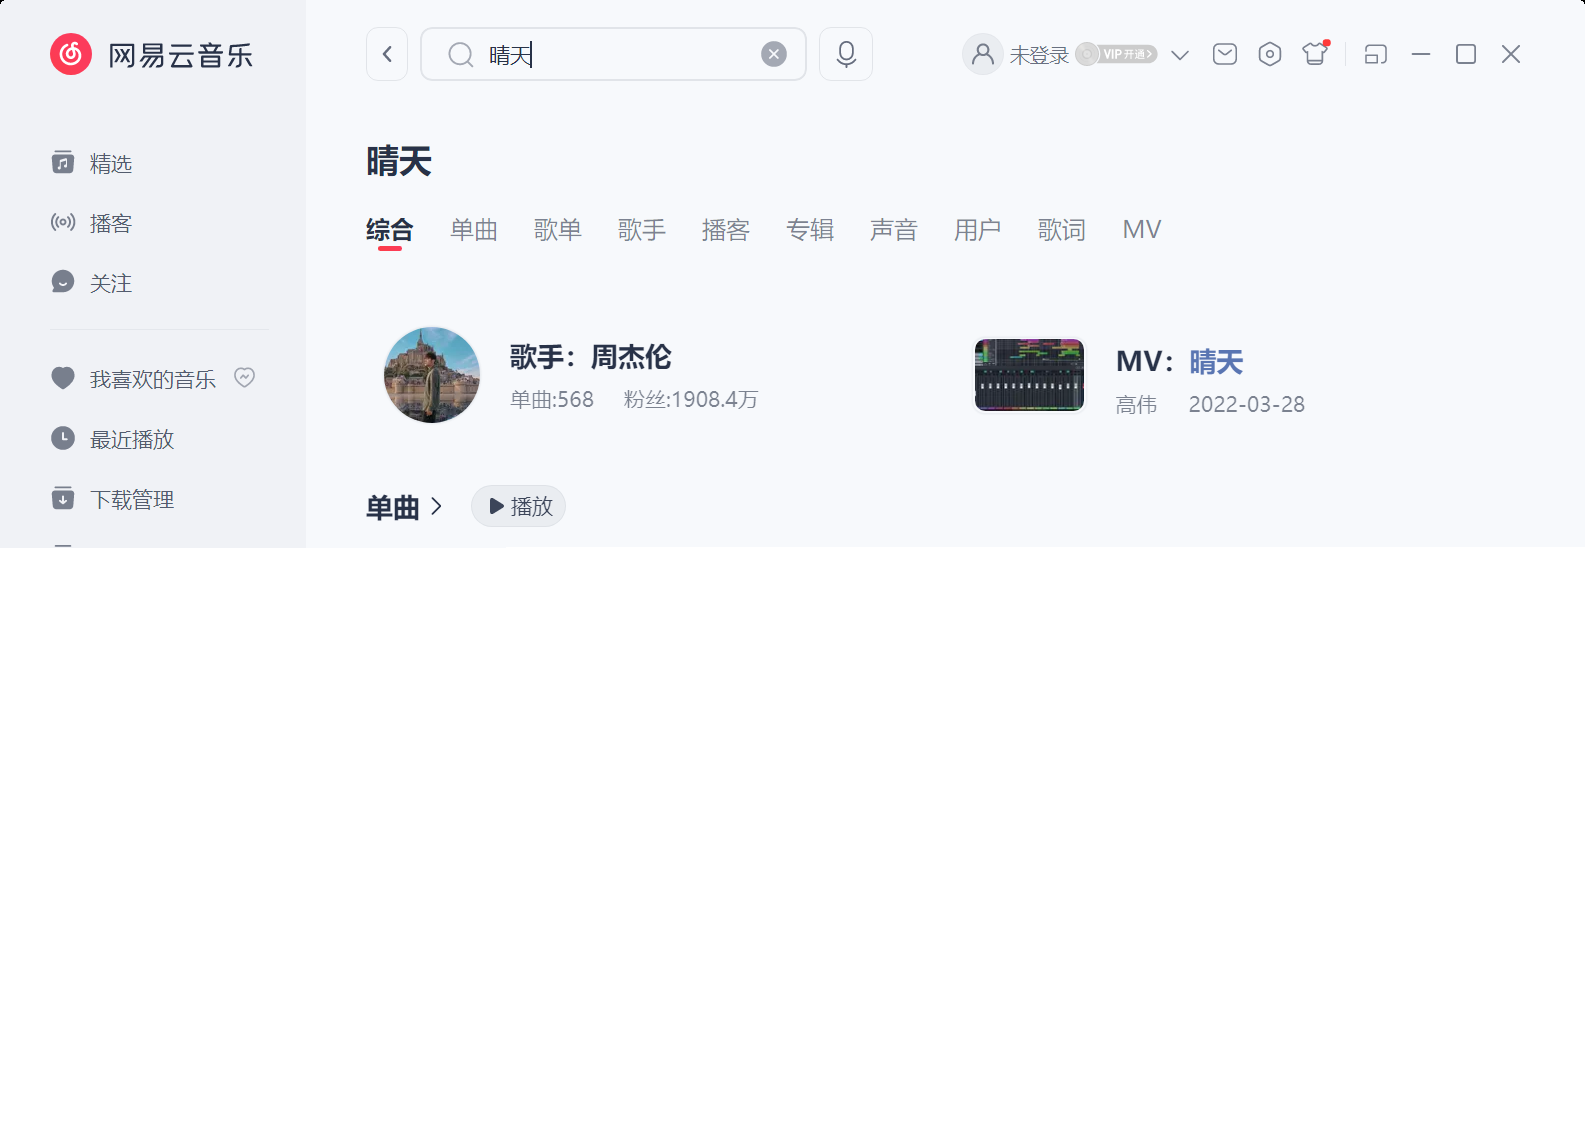
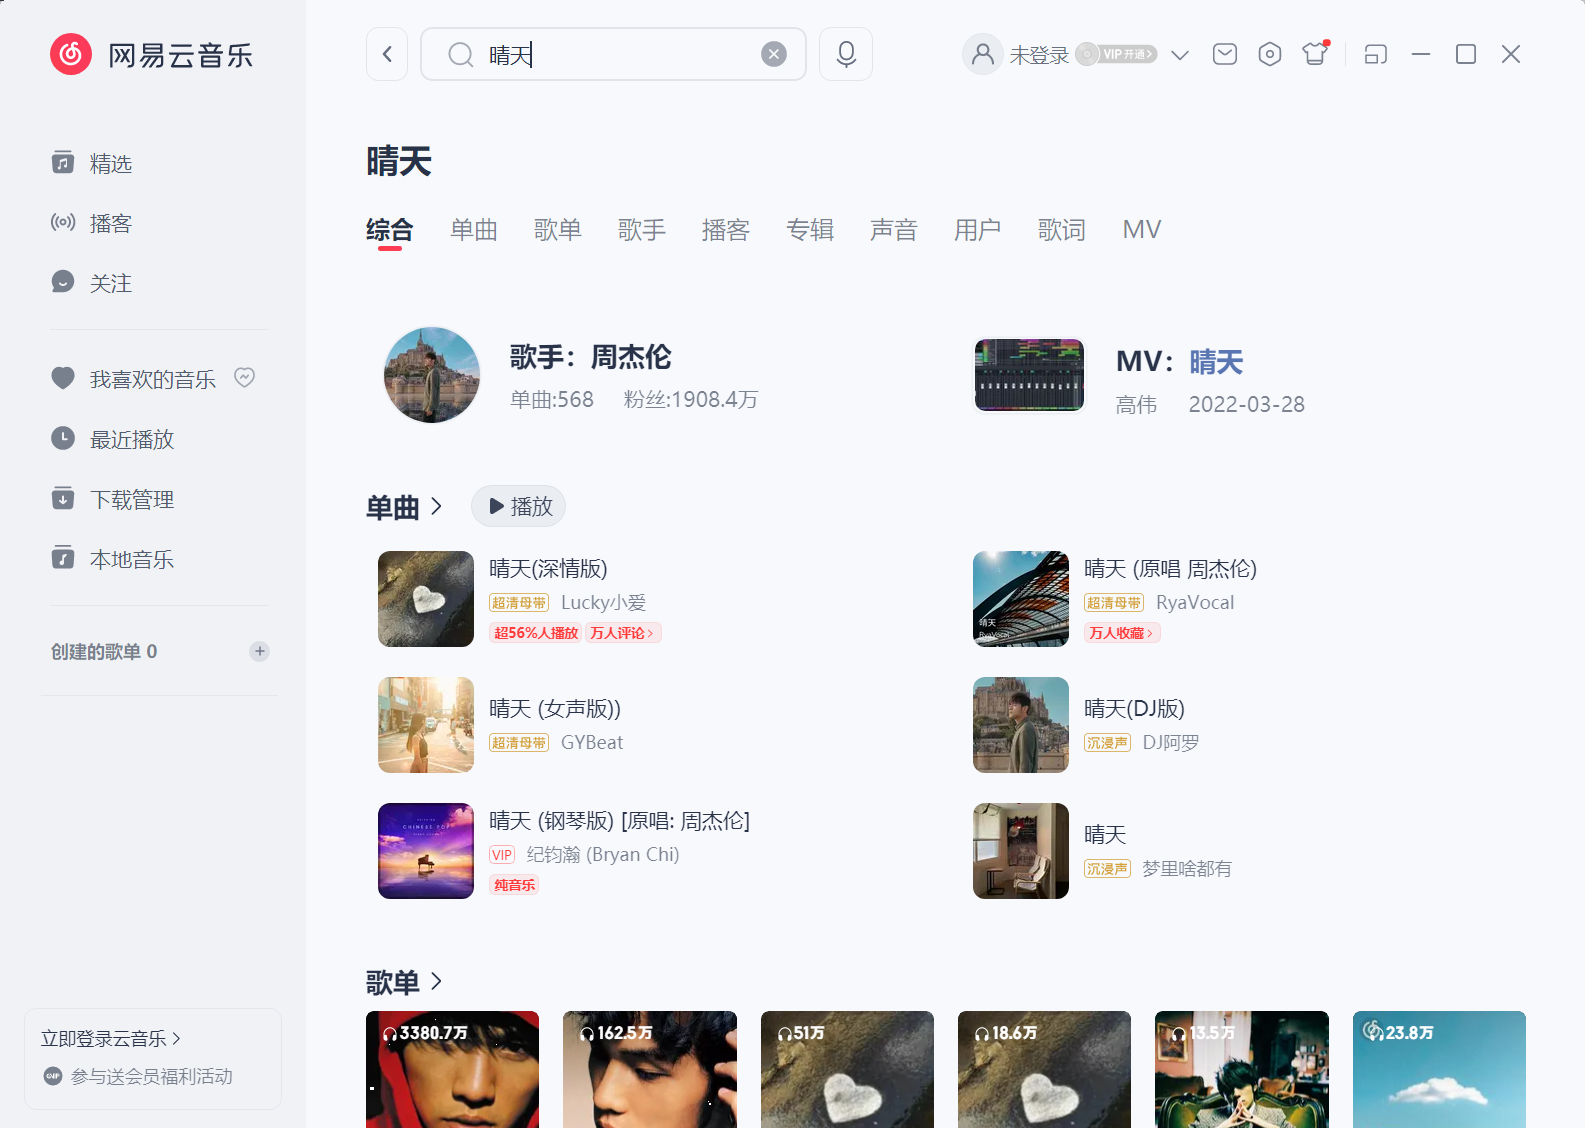
Fix partial foreground window captures and expand essential README sections (#22)

diff --git a/README.en.md b/README.en.md
@@ -27,7 +27,7 @@ dsh plugin --profile web add dsh-computer-use-win
 
 Restart `dsh web`; Desktop users should reload their host and MCP worker. Replace `web` with **the profile your host actually uses**, then run `health` to check the connection. DSH exposes the tools as `mcp__wincu__windows_computer_use_*`.
 
-<details>
+<details open>
 <summary>Other installation options and upgrade checks</summary>
 
 Install from GitHub:
@@ -77,7 +77,7 @@ These screenshots come from actual desktop operations.
 
 **Open the app → locate the search field with OCR → type “晴天” → verify the results.**
 
-NetEase's default accessibility tree exposes only a few nodes. OCR lets the plugin locate the search entry and complete the task. Version 0.3.0 completed two cold-start searches in an independent Windows VM, with “晴天” and “周杰伦” visible on the results page.
+NetEase's default accessibility tree exposes only a few nodes. OCR lets the plugin locate the search entry and complete the task. Version 0.3.1 completed two cold-start searches in an independent Windows VM, with “晴天” and “周杰伦” visible on the results page.
 
 ![Actual NetEase Cloud Music search results showing 晴天 and artist 周杰伦](assets/netease-qingtian-search.png)
 
@@ -86,12 +86,12 @@ NetEase's default accessibility tree exposes only a few nodes. OCR lets the plug
 | ![File selection using find and invoke](assets/screenshot-1.png) | ![Text input and content read-back](assets/screenshot-2.png) | ![Calculator result of 25 times 4 equals 100](assets/screenshot-3.png) |
 | Query and select a file | Write, then read back | Locate buttons and read the result |
 
-<details>
-<summary>0.3.0 task validation in a real application</summary>
+<details open>
+<summary>0.3.1 task validation in a real application</summary>
 
 An owned Windows 11 Home China 22621.4112 VM, PowerShell 5.1.22621.4111, 2560×1600 display, 150% DPI and NetEase 3.1.41.205529 completed two cold-start searches: OCR location → click → type “晴天” → Enter → observe “单曲” and “周杰伦” in the final OCR/screenshot. Clipboard text, bitmap and file-drop contents were restored; every before/after native responsiveness probe passed.
 
-The task used the official Cordis / ToolRuntime / MCP bridge programmatically, without a model. Playback was not tested, and the app freeze reported in [#18](https://github.com/Yu-tao-Li/dsh-computer-use-win/issues/18) remains unreproduced. See the [0.3.0 release](https://github.com/Yu-tao-Li/dsh-computer-use-win/releases/tag/v0.3.0) and [test notes](docs/dev-notes.md) for evidence.
+The task used the official Cordis / ToolRuntime / MCP bridge programmatically, without a model. Playback was not tested, and the app freeze reported in [#18](https://github.com/Yu-tao-Li/dsh-computer-use-win/issues/18) remains unreproduced. See the [0.3.1 release](https://github.com/Yu-tao-Li/dsh-computer-use-win/releases/tag/v0.3.1) and [test notes](docs/dev-notes.md) for evidence.
 
 </details>
 
@@ -99,7 +99,7 @@ The task used the official Cordis / ToolRuntime / MCP bridge programmatically, w
 
 Start with `health`, `list_windows`, and `find` / `snapshot`, then choose an action for the target. Short names below map to `windows_computer_use_<name>`; the DSH bridge adds `mcp__wincu__`.
 
-<details>
+<details open>
 <summary>All 23 tools</summary>
 
 | Purpose | Tools |
@@ -118,7 +118,7 @@ Tools supporting window targeting accept `windowTitle`, `processId` or `nativeWi
 
 </details>
 
-<details>
+<details open>
 <summary>When should I use UIA, OCR or screenshots?</summary>
 
 | Current observation | Next step |
@@ -133,7 +133,7 @@ Empty sparse (≤20 nodes, a heuristic) or incomplete UIA searches can automatic
 
 OCR candidates carry `source:"ocr"` and physical screen coordinates, without invented UIA IDs. Default OCR and standalone screenshots skip UIA. Explicit `resolveControl:true` requests a UIA point lookup, whose result may be a whole document. `ocr(includeScreenshot:true)` also returns MCP image content.
 
-Capture tries PrintWindow → Windows.Graphics.Capture → screen-region fallback, flagging possible occlusion. Map a scaled image point with `screen coordinate = bounds origin + image coordinate / imageScale`.
+An unobstructed foreground window uses actual screen pixels, with window geometry and occlusion checked before and after capture. Other cases try PrintWindow → Windows.Graphics.Capture → screen region. Screen-region captures use `occludedPossible` to distinguish a checked clear crop from a potentially covered fallback. Map a scaled image point with `screen coordinate = bounds origin + image coordinate / imageScale`.
 
 </details>
 
@@ -243,7 +243,7 @@ dsh plugin --profile web add dsh-computer-use-win
 
 重启 `dsh web`；DSH Desktop 用户重新加载对应宿主和 MCP worker。将 `web` 换成**实际使用的 profile**，再运行 `health` 检查连接。工具在 DSH 中显示为 `mcp__wincu__windows_computer_use_*`。
 
-<details>
+<details open>
 <summary>其他安装方式与升级检查</summary>
 
 从 GitHub 安装：
@@ -293,7 +293,7 @@ dsh plugin --profile web add github:Yu-tao-Li/dsh-computer-use-win
 
 **打开应用 → OCR 定位搜索框 → 输入“晴天” → 确认搜索结果。**
 
-网易云的默认无障碍树只暴露少量节点，OCR 让插件仍能定位搜索入口并完成操作。0.3.0 在独立 Windows 虚拟机中完成了两次冷启动搜索，结果页可见“晴天”和“周杰伦”。
+网易云的默认无障碍树只暴露少量节点，OCR 让插件仍能定位搜索入口并完成操作。0.3.1 在独立 Windows 虚拟机中完成了两次冷启动搜索，结果页可见“晴天”和“周杰伦”。
 
 ![网易云音乐搜索晴天的实际结果页，显示搜索词晴天和歌手周杰伦](assets/netease-qingtian-search.png)
 
@@ -302,12 +302,12 @@ dsh plugin --profile web add github:Yu-tao-Li/dsh-computer-use-win
 | ![通过 find 与 invoke 选中文件](assets/screenshot-1.png) | ![文本输入与内容回读](assets/screenshot-2.png) | ![计算器显示 25 乘 4 的结果 100](assets/screenshot-3.png) |
 | 查询并选择文件 | 写入后读取内容 | 定位按钮并读取结果 |
 
-<details>
-<summary>0.3.0 的真实任务验证</summary>
+<details open>
+<summary>0.3.1 的真实任务验证</summary>
 
 在独立 Windows 11 家庭中文版 22621.4112 虚拟机中，使用 PowerShell 5.1.22621.4111、2560×1600、150% DPI 和网易云 3.1.41.205529，完成两次冷启动搜索：OCR 定位 → 点击 → 输入“晴天” → 回车 → 在最终 OCR/截图中确认“单曲”和“周杰伦”。文本、图片及文件列表剪贴板内容均恢复，所有测前/测后原生响应探测通过。
 
-该测试通过官方 Cordis / ToolRuntime / MCP bridge 程序化执行，没有模型参与，未验证播放；[#18](https://github.com/Yu-tao-Li/dsh-computer-use-win/issues/18) 中报告的应用卡死仍未复现。更多证据见 [0.3.0 发布说明](https://github.com/Yu-tao-Li/dsh-computer-use-win/releases/tag/v0.3.0) 和 [测试记录](docs/dev-notes.md)。
+该测试通过官方 Cordis / ToolRuntime / MCP bridge 程序化执行，没有模型参与，未验证播放；[#18](https://github.com/Yu-tao-Li/dsh-computer-use-win/issues/18) 中报告的应用卡死仍未复现。更多证据见 [0.3.1 发布说明](https://github.com/Yu-tao-Li/dsh-computer-use-win/releases/tag/v0.3.1) 和 [测试记录](docs/dev-notes.md)。
 
 </details>
 
@@ -315,7 +315,7 @@ dsh plugin --profile web add github:Yu-tao-Li/dsh-computer-use-win
 
 通常从 `health`、`list_windows`、`find` / `snapshot` 开始，再按目标选择动作。下表使用工具短名；完整 MCP 名称为 `windows_computer_use_<短名>`，DSH bridge 再加 `mcp__wincu__`。
 
-<details>
+<details open>
 <summary>查看全部 23 个工具</summary>
 
 | 用途 | 工具 |
@@ -334,7 +334,7 @@ dsh plugin --profile web add github:Yu-tao-Li/dsh-computer-use-win
 
 </details>
 
-<details>
+<details open>
 <summary>UIA、OCR 与截图应该怎样选择？</summary>
 
 | 当前观察 | 下一步 |
@@ -349,7 +349,7 @@ dsh plugin --profile web add github:Yu-tao-Li/dsh-computer-use-win
 
 OCR 候选带 `source:"ocr"` 和物理屏幕坐标，不提供伪造的 UIA ID。默认 OCR 和独立截图跳过 UIA；`resolveControl:true` 才执行 UIA 点查询，其结果可能是整页。`ocr(includeScreenshot:true)` 同时返回 MCP 图片。
 
-截图按 PrintWindow → Windows.Graphics.Capture → 屏幕区域回退，可能被遮挡时带 `occludedPossible`。缩放图片中的点映射为：`屏幕坐标 = bounds 原点 + 图片坐标 / imageScale`。
+前台且无遮挡的窗口优先采集真实屏幕内容，采集前后检查窗口位置和遮挡；其他情况按 PrintWindow → Windows.Graphics.Capture → 屏幕区域回退。屏幕区域采集用 `occludedPossible` 区分已检查无遮挡和可能被覆盖的情况。缩放图片中的点映射为：`屏幕坐标 = bounds 原点 + 图片坐标 / imageScale`。
 
 </details>
 

diff --git a/README.md b/README.md
@@ -27,7 +27,7 @@ dsh plugin --profile web add dsh-computer-use-win
 
 重启 `dsh web`；DSH Desktop 用户重新加载对应宿主和 MCP worker。将 `web` 换成**实际使用的 profile**，再运行 `health` 检查连接。工具在 DSH 中显示为 `mcp__wincu__windows_computer_use_*`。
 
-<details>
+<details open>
 <summary>其他安装方式与升级检查</summary>
 
 从 GitHub 安装：
@@ -77,7 +77,7 @@ dsh plugin --profile web add github:Yu-tao-Li/dsh-computer-use-win
 
 **打开应用 → OCR 定位搜索框 → 输入“晴天” → 确认搜索结果。**
 
-网易云的默认无障碍树只暴露少量节点，OCR 让插件仍能定位搜索入口并完成操作。0.3.0 在独立 Windows 虚拟机中完成了两次冷启动搜索，结果页可见“晴天”和“周杰伦”。
+网易云的默认无障碍树只暴露少量节点，OCR 让插件仍能定位搜索入口并完成操作。0.3.1 在独立 Windows 虚拟机中完成了两次冷启动搜索，结果页可见“晴天”和“周杰伦”。
 
 ![网易云音乐搜索晴天的实际结果页，显示搜索词晴天和歌手周杰伦](assets/netease-qingtian-search.png)
 
@@ -86,12 +86,12 @@ dsh plugin --profile web add github:Yu-tao-Li/dsh-computer-use-win
 | ![通过 find 与 invoke 选中文件](assets/screenshot-1.png) | ![文本输入与内容回读](assets/screenshot-2.png) | ![计算器显示 25 乘 4 的结果 100](assets/screenshot-3.png) |
 | 查询并选择文件 | 写入后读取内容 | 定位按钮并读取结果 |
 
-<details>
-<summary>0.3.0 的真实任务验证</summary>
+<details open>
+<summary>0.3.1 的真实任务验证</summary>
 
 在独立 Windows 11 家庭中文版 22621.4112 虚拟机中，使用 PowerShell 5.1.22621.4111、2560×1600、150% DPI 和网易云 3.1.41.205529，完成两次冷启动搜索：OCR 定位 → 点击 → 输入“晴天” → 回车 → 在最终 OCR/截图中确认“单曲”和“周杰伦”。文本、图片及文件列表剪贴板内容均恢复，所有测前/测后原生响应探测通过。
 
-该测试通过官方 Cordis / ToolRuntime / MCP bridge 程序化执行，没有模型参与，未验证播放；[#18](https://github.com/Yu-tao-Li/dsh-computer-use-win/issues/18) 中报告的应用卡死仍未复现。更多证据见 [0.3.0 发布说明](https://github.com/Yu-tao-Li/dsh-computer-use-win/releases/tag/v0.3.0) 和 [测试记录](docs/dev-notes.md)。
+该测试通过官方 Cordis / ToolRuntime / MCP bridge 程序化执行，没有模型参与，未验证播放；[#18](https://github.com/Yu-tao-Li/dsh-computer-use-win/issues/18) 中报告的应用卡死仍未复现。更多证据见 [0.3.1 发布说明](https://github.com/Yu-tao-Li/dsh-computer-use-win/releases/tag/v0.3.1) 和 [测试记录](docs/dev-notes.md)。
 
 </details>
 
@@ -99,7 +99,7 @@ dsh plugin --profile web add github:Yu-tao-Li/dsh-computer-use-win
 
 通常从 `health`、`list_windows`、`find` / `snapshot` 开始，再按目标选择动作。下表使用工具短名；完整 MCP 名称为 `windows_computer_use_<短名>`，DSH bridge 再加 `mcp__wincu__`。
 
-<details>
+<details open>
 <summary>查看全部 23 个工具</summary>
 
 | 用途 | 工具 |
@@ -118,7 +118,7 @@ dsh plugin --profile web add github:Yu-tao-Li/dsh-computer-use-win
 
 </details>
 
-<details>
+<details open>
 <summary>UIA、OCR 与截图应该怎样选择？</summary>
 
 | 当前观察 | 下一步 |
@@ -133,7 +133,7 @@ dsh plugin --profile web add github:Yu-tao-Li/dsh-computer-use-win
 
 OCR 候选带 `source:"ocr"` 和物理屏幕坐标，不提供伪造的 UIA ID。默认 OCR 和独立截图跳过 UIA；`resolveControl:true` 才执行 UIA 点查询，其结果可能是整页。`ocr(includeScreenshot:true)` 同时返回 MCP 图片。
 
-截图按 PrintWindow → Windows.Graphics.Capture → 屏幕区域回退，可能被遮挡时带 `occludedPossible`。缩放图片中的点映射为：`屏幕坐标 = bounds 原点 + 图片坐标 / imageScale`。
+前台且无遮挡的窗口优先采集真实屏幕内容，采集前后检查窗口位置和遮挡；其他情况按 PrintWindow → Windows.Graphics.Capture → 屏幕区域回退。屏幕区域采集用 `occludedPossible` 区分已检查无遮挡和可能被覆盖的情况。缩放图片中的点映射为：`屏幕坐标 = bounds 原点 + 图片坐标 / imageScale`。
 
 </details>
 
@@ -243,7 +243,7 @@ dsh plugin --profile web add dsh-computer-use-win
 
 Restart `dsh web`; Desktop users should reload their host and MCP worker. Replace `web` with **the profile your host actually uses**, then run `health` to check the connection. DSH exposes the tools as `mcp__wincu__windows_computer_use_*`.
 
-<details>
+<details open>
 <summary>Other installation options and upgrade checks</summary>
 
 Install from GitHub:
@@ -293,7 +293,7 @@ These screenshots come from actual desktop operations.
 
 **Open the app → locate the search field with OCR → type “晴天” → verify the results.**
 
-NetEase's default accessibility tree exposes only a few nodes. OCR lets the plugin locate the search entry and complete the task. Version 0.3.0 completed two cold-start searches in an independent Windows VM, with “晴天” and “周杰伦” visible on the results page.
+NetEase's default accessibility tree exposes only a few nodes. OCR lets the plugin locate the search entry and complete the task. Version 0.3.1 completed two cold-start searches in an independent Windows VM, with “晴天” and “周杰伦” visible on the results page.
 
 ![Actual NetEase Cloud Music search results showing 晴天 and artist 周杰伦](assets/netease-qingtian-search.png)
 
@@ -302,12 +302,12 @@ NetEase's default accessibility tree exposes only a few nodes. OCR lets the plug
 | ![File selection using find and invoke](assets/screenshot-1.png) | ![Text input and content read-back](assets/screenshot-2.png) | ![Calculator result of 25 times 4 equals 100](assets/screenshot-3.png) |
 | Query and select a file | Write, then read back | Locate buttons and read the result |
 
-<details>
-<summary>0.3.0 task validation in a real application</summary>
+<details open>
+<summary>0.3.1 task validation in a real application</summary>
 
 An owned Windows 11 Home China 22621.4112 VM, PowerShell 5.1.22621.4111, 2560×1600 display, 150% DPI and NetEase 3.1.41.205529 completed two cold-start searches: OCR location → click → type “晴天” → Enter → observe “单曲” and “周杰伦” in the final OCR/screenshot. Clipboard text, bitmap and file-drop contents were restored; every before/after native responsiveness probe passed.
 
-The task used the official Cordis / ToolRuntime / MCP bridge programmatically, without a model. Playback was not tested, and the app freeze reported in [#18](https://github.com/Yu-tao-Li/dsh-computer-use-win/issues/18) remains unreproduced. See the [0.3.0 release](https://github.com/Yu-tao-Li/dsh-computer-use-win/releases/tag/v0.3.0) and [test notes](docs/dev-notes.md) for evidence.
+The task used the official Cordis / ToolRuntime / MCP bridge programmatically, without a model. Playback was not tested, and the app freeze reported in [#18](https://github.com/Yu-tao-Li/dsh-computer-use-win/issues/18) remains unreproduced. See the [0.3.1 release](https://github.com/Yu-tao-Li/dsh-computer-use-win/releases/tag/v0.3.1) and [test notes](docs/dev-notes.md) for evidence.
 
 </details>
 
@@ -315,7 +315,7 @@ The task used the official Cordis / ToolRuntime / MCP bridge programmatically, w
 
 Start with `health`, `list_windows`, and `find` / `snapshot`, then choose an action for the target. Short names below map to `windows_computer_use_<name>`; the DSH bridge adds `mcp__wincu__`.
 
-<details>
+<details open>
 <summary>All 23 tools</summary>
 
 | Purpose | Tools |
@@ -334,7 +334,7 @@ Tools supporting window targeting accept `windowTitle`, `processId` or `nativeWi
 
 </details>
 
-<details>
+<details open>
 <summary>When should I use UIA, OCR or screenshots?</summary>
 
 | Current observation | Next step |
@@ -349,7 +349,7 @@ Empty sparse (≤20 nodes, a heuristic) or incomplete UIA searches can automatic
 
 OCR candidates carry `source:"ocr"` and physical screen coordinates, without invented UIA IDs. Default OCR and standalone screenshots skip UIA. Explicit `resolveControl:true` requests a UIA point lookup, whose result may be a whole document. `ocr(includeScreenshot:true)` also returns MCP image content.
 
-Capture tries PrintWindow → Windows.Graphics.Capture → screen-region fallback, flagging possible occlusion. Map a scaled image point with `screen coordinate = bounds origin + image coordinate / imageScale`.
+An unobstructed foreground window uses actual screen pixels, with window geometry and occlusion checked before and after capture. Other cases try PrintWindow → Windows.Graphics.Capture → screen region. Screen-region captures use `occludedPossible` to distinguish a checked clear crop from a potentially covered fallback. Map a scaled image point with `screen coordinate = bounds origin + image coordinate / imageScale`.
 
 </details>
 

diff --git a/docs/wiki/mcp-tools.md b/docs/wiki/mcp-tools.md
@@ -6,7 +6,7 @@ The Node server enforces the same schemas returned by tools/list. Unknown proper
 
 Prefer scoped UIA observations. find supplements an empty sparse (at most 20 nodes, a heuristic) or incomplete search with OCR, unless ocrFallback:false or controlType is specified. OCR candidates are recognized text and screen coordinates, not UIA ids. Inspect ocr.lines if a literal query misses a placeholder.
 
-screenshot and default OCR do not resolve UIA. OCR resolveControl:true opts into hit-testing; its control may represent the whole page. includeScreenshot:true returns MCP image content. Map image pixels to screen = imageBounds origin + image / imageScale. Occluded captures are explicitly flagged.
+screenshot and default OCR do not resolve UIA. An unobstructed foreground window uses a screen crop checked before and after capture; background/covered windows use window-capture fallbacks. OCR resolveControl:true opts into hit-testing; its control may represent the whole page. includeScreenshot:true returns MCP image content. Map image pixels to screen = imageBounds origin + image / imageScale. Screen-region captures report occludedPossible:false only when the foreground, Z-order and geometry checks passed; the last-resort screen fallback reports true.
 
 After a coordinate click, type_text preserves focus. Explicit focusMode:main requests heuristic main-control focus. Input actions only report verification:sent; use wait_for for an expected window, UIA element or literal visible text. A confirmed condition reports verification:observed; truncated UIA absence and occluded OCR are inconclusive. Confirm text that exists only after the desired effect, rather than the same text just typed.
 

diff --git a/docs/wiki/architecture.md b/docs/wiki/architecture.md
@@ -6,7 +6,7 @@ DSH ToolRuntime calls the official MCP bridge, which starts mcp/server.mjs in No
 
 UIA trees use cached properties, a node cap, a depth cap and a traversal time budget. One synchronous provider call can still block. The server watchdog allows the budget plus 10 seconds, retires a stuck worker, and may obtain a native screenshot from a replacement. The response preserves explicit failure; an image is not a successful accessibility tree.
 
-Native window enumeration, screenshot, default OCR, coordinate targeting and window management do not resolve UIA elements. PrintWindow, Windows.Graphics.Capture and a flagged screen-region fallback capture rendered pixels. These capture APIs have their own watchdog; UIA independence is not a guarantee that every capture API is interruptible.
+Native window enumeration, screenshot, default OCR, coordinate targeting and window management do not resolve UIA elements. Fully on-screen, unobstructed foreground windows use a screen crop, with foreground HWND, Z order and geometry checked before and after capture. Other windows use PrintWindow, Windows.Graphics.Capture and a flagged screen-region fallback. These capture APIs have their own watchdog; UIA independence is not a guarantee that every capture API is interruptible.
 
 Empty sparse/incomplete find results can attach OCR. OCR candidates have source:ocr, recognized text and screen-space bounds. Literal OCR text does not prove a control role. Explicit resolveControl requests a UIA hit-test, whose result may be a whole document. Screenshot image pixels map to screen = bounds origin + image / imageScale.
 

diff --git a/CHANGELOG.md b/CHANGELOG.md
@@ -1,5 +1,12 @@
 # Changelog
 
+## 0.3.1 — 2026-10-14
+
+- 前台窗口完全在虚拟桌面范围内且无遮挡时，截图/OCR 优先采集真实屏幕像素，避免网易云 CEF 的 PrintWindow 返回成功但图片缺失下半部分。采集前后检查前台 HWND、窗口层级和位置；不主动激活窗口。
+- 后台或有遮挡的窗口仍使用 PrintWindow/WGC 和带遮挡标记的屏幕回退。失败的 PrintWindow 位图及时释放。
+- 中英文 README 使用同页语言导航，替换网易云搜索《晴天》的完整实测截图；安装、工具列表、观察方式和真实任务验证默认展开。
+- Prefer a checked screen crop for fully visible, unobstructed foreground windows. Verify focus, Z order and geometry around capture; preserve background capture fallbacks and explicit occlusion metadata. Add screen-crop eligibility regressions.
+
 ## 0.3.0 — 2026-10-14
 
 - Add native `screenshot` and UIA-independent OCR capture; make OCR hit-testing opt-in and support MCP image output.
